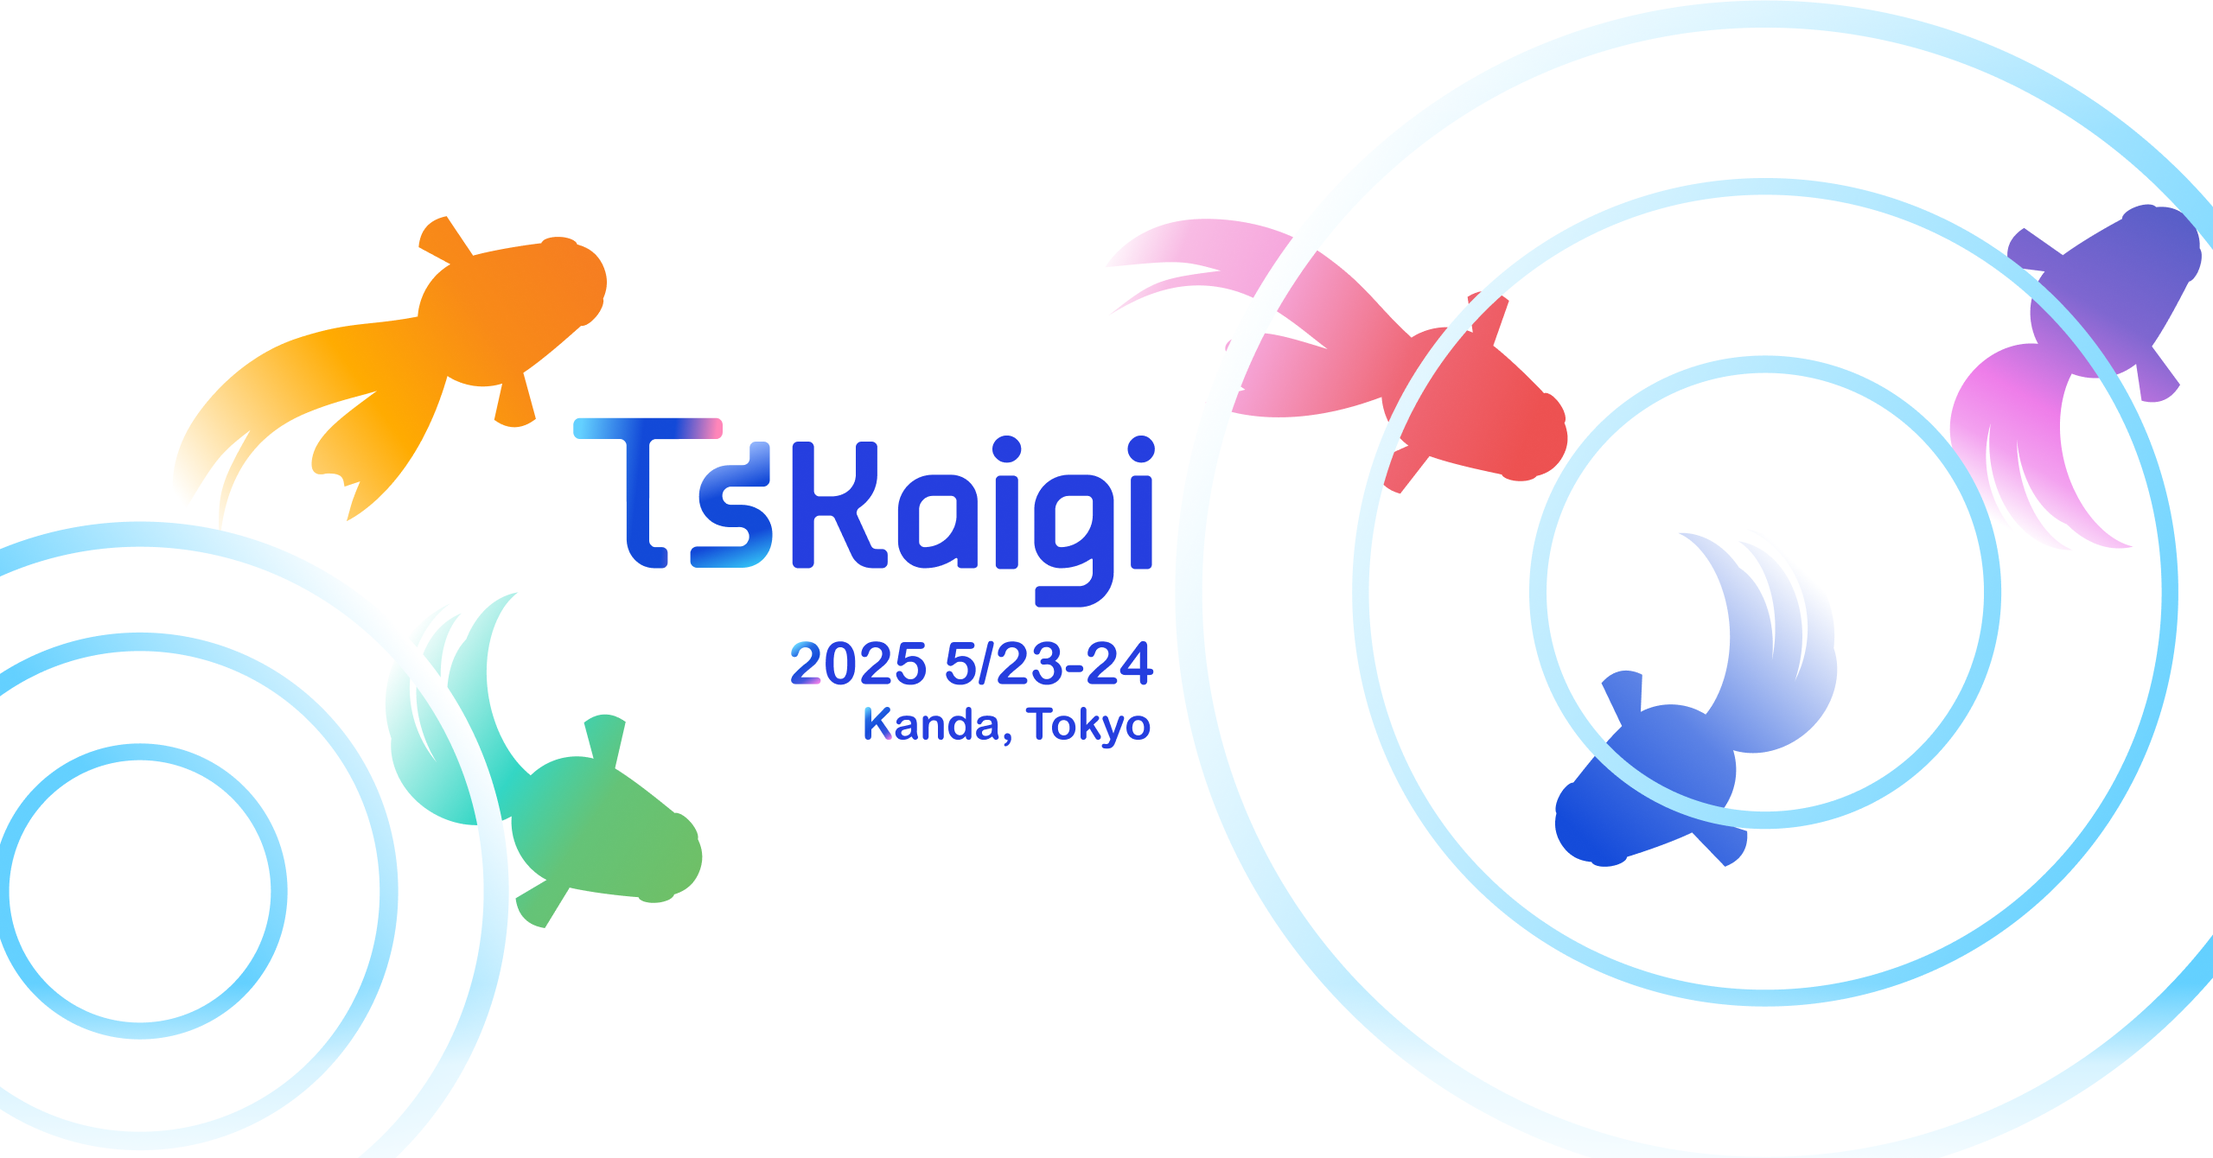
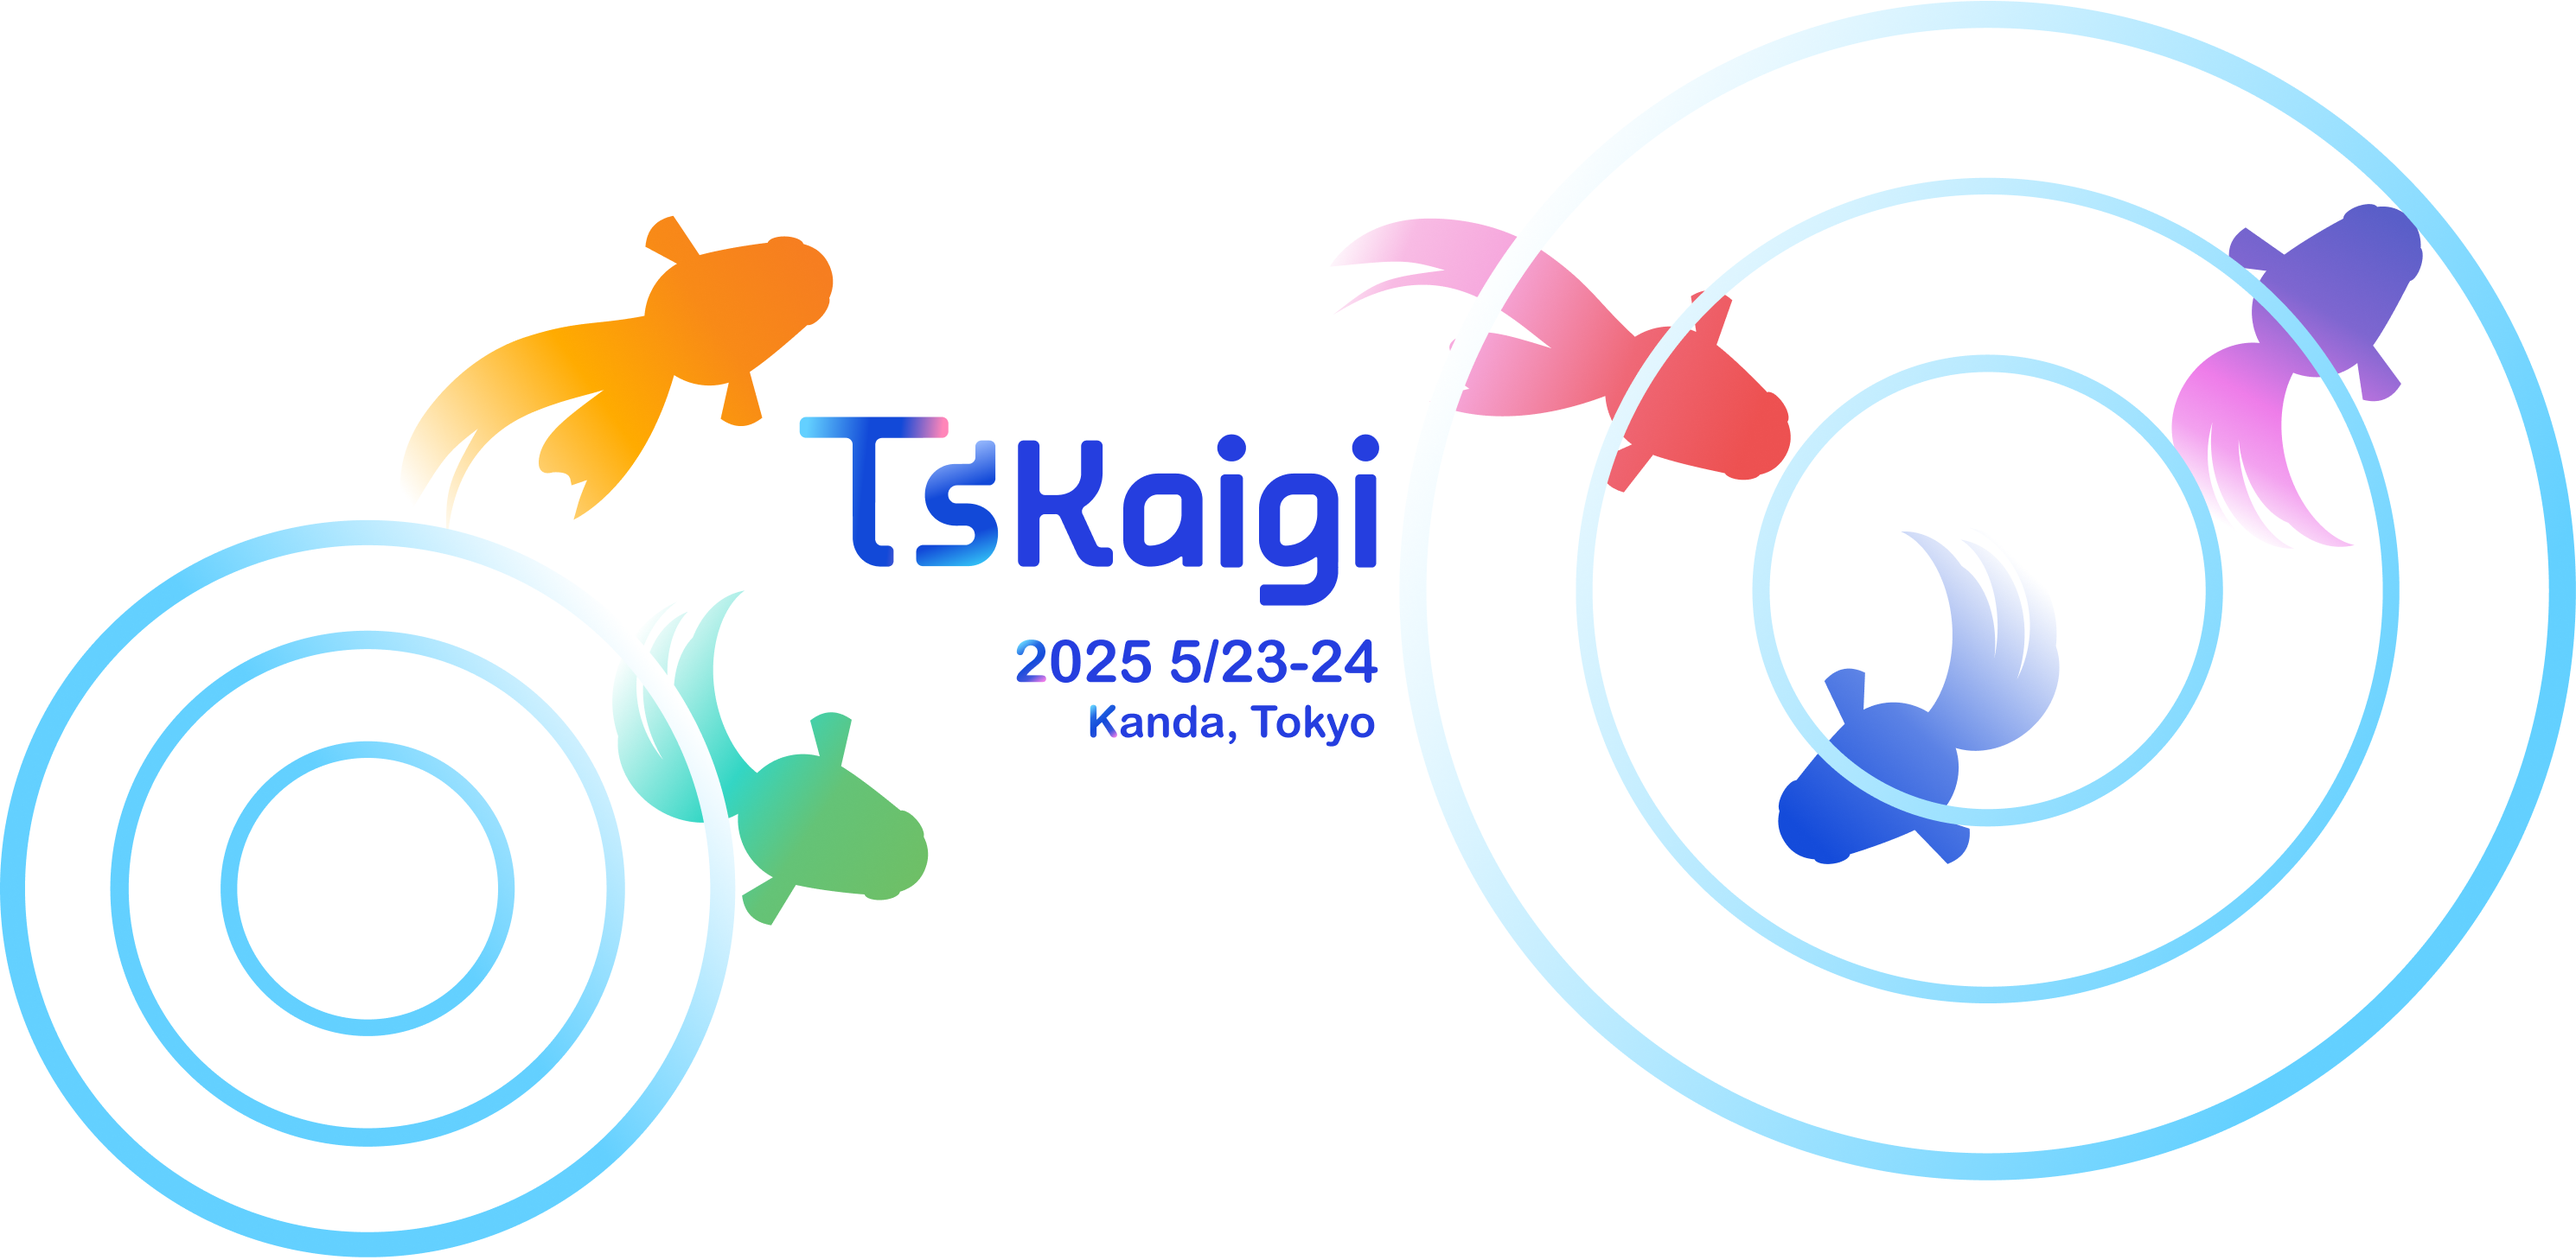
feat: メインビジュアルの最大幅を設定

diff --git a/src/components/HeroSection/index.tsx b/src/components/HeroSection/index.tsx
@@ -9,6 +9,13 @@ export function HeroSection() {
         alt="TSKaigi 2025のメインビジュアル。2025年5月23日(金) - 24日(土)に開催。"
         priority
         sizes="100vw"
+        className="xl:max-w-[1280px] xl:mx-auto"
+        style={{
+          WebkitMaskImage:
+            "linear-gradient(to bottom, rgba(0, 0, 0, 1) 50%, rgba(0, 0, 0, 0) 100%)",
+          maskImage:
+            "linear-gradient(to bottom, rgba(0, 0, 0, 1) 50%, rgba(0, 0, 0, 0) 100%)",
+        }}
       />
     </section>
   );
